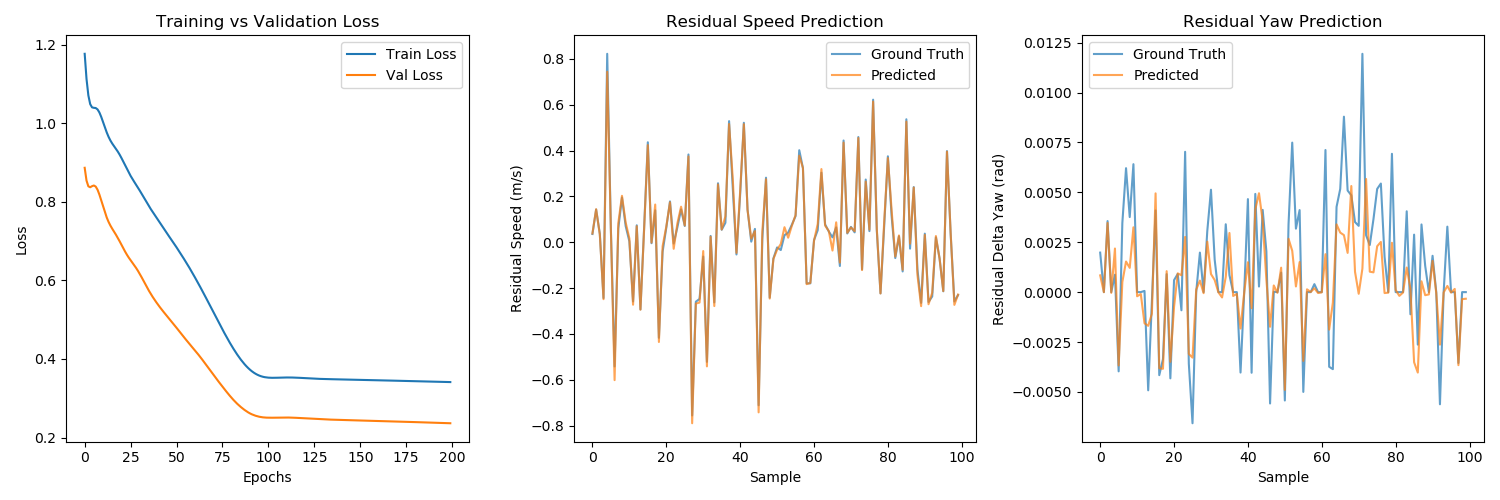
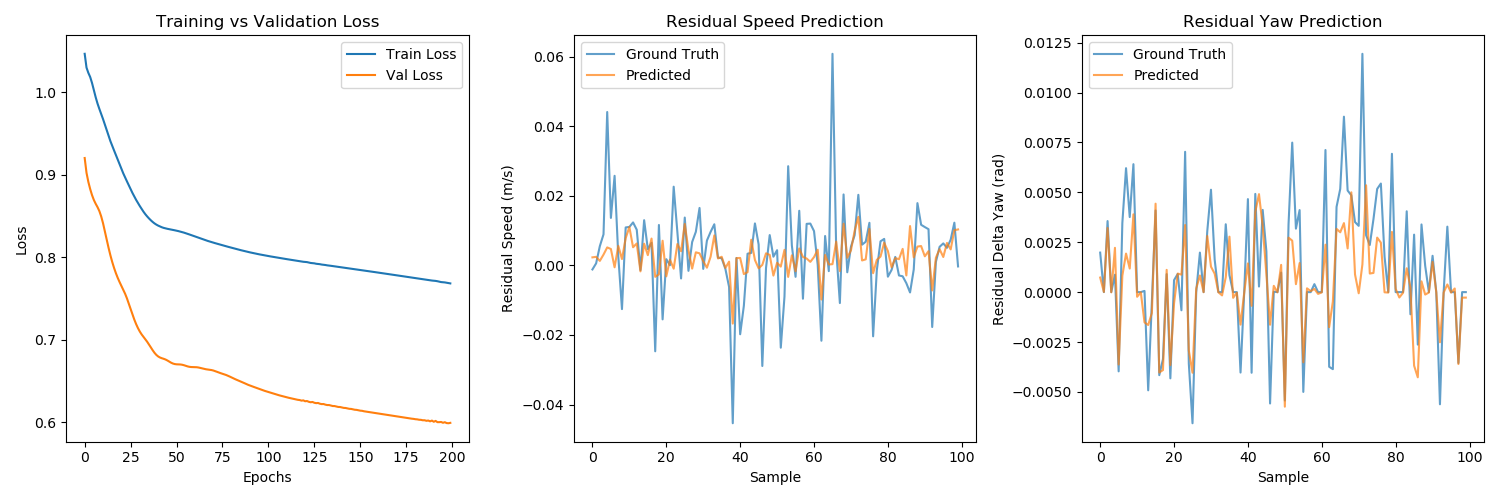
perf: Optimize K_acc parameter in dynamics and vehicle models, updating trained models and adding new CTE plot.

diff --git a/steerai_mpc/scripts/vehicle_model.py b/steerai_mpc/scripts/vehicle_model.py
@@ -9,14 +9,14 @@ import casadi as ca
 import rospy
 
 class VehicleModel:
-    def __init__(self, dt=0.1, wheelbase=1.75, K_acc=0.5):
+    def __init__(self, dt=0.1, wheelbase=1.75, K_acc=0.0553):
         """
         Initialize Vehicle Model.
         Handles loading of Neural Network dynamics and provides symbolic expressions.
         
         :param dt: Time step
         :param wheelbase: Vehicle wheelbase (meters)
-        :param K_acc: Acceleration response factor for kinematic baseline (0-1)
+        :param K_acc: Acceleration response factor for kinematic baseline (optimized: 0.0553)
         """
         self.dt = dt
         self.wheelbase = wheelbase

diff --git a/steerai_sysid/scripts/train_dynamics.py b/steerai_sysid/scripts/train_dynamics.py
@@ -79,7 +79,8 @@ def train_model():
     
     # 2. Speed delta baseline: (cmd_speed - curr_speed) * K_acc
     # K_acc represents how quickly the vehicle responds to speed commands
-    K_acc = 0.5  # Initial guess, can be tuned
+    # Optimized value from data analysis (see optimize_kacc.py)
+    K_acc = 0.0553  # Optimal value: 95% RMSE reduction vs K_acc=0.5
     df['kinematic_delta_speed'] = (df['cmd_speed'] - df['curr_speed']) * K_acc
     
     # --- COMPUTE RESIDUALS ---
